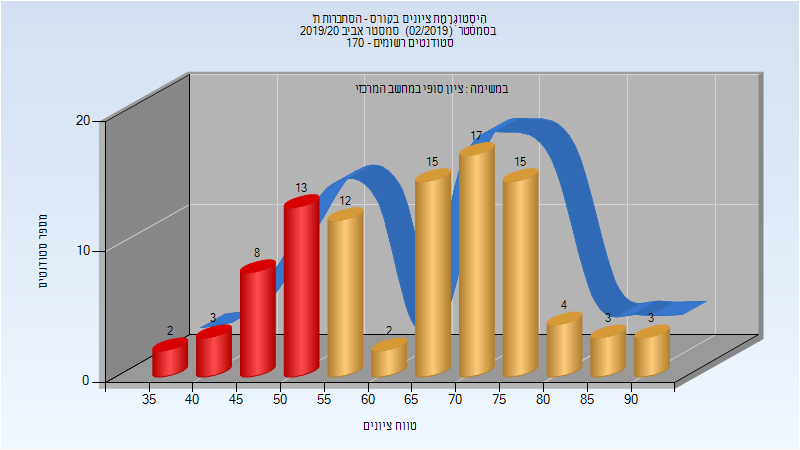
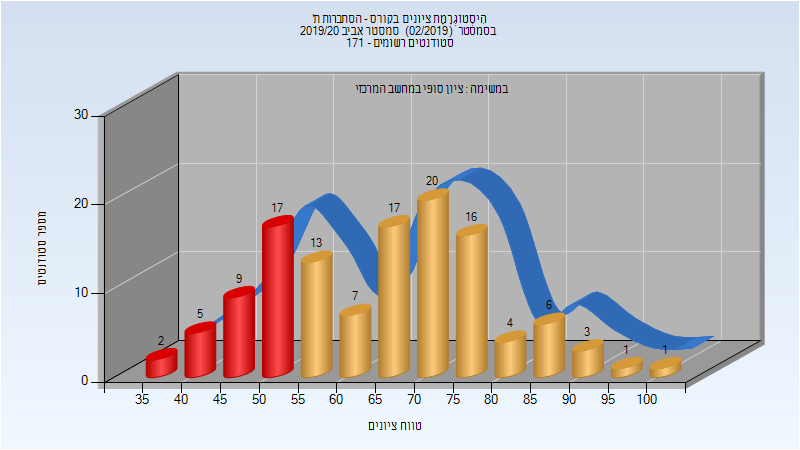
Deploy michael-maltsev/technion-histograms to github.com/michael-maltsev/technion-histograms.git:gh-pages

diff --git a/094411/index.html b/094411/index.html
@@ -686,12 +686,12 @@
 </thead>
 <tbody>
 <tr>
-<td>97</td>
-<td>71/26</td>
+<td>121</td>
+<td>88/33</td>
 <td>73</td>
 <td>36</td>
-<td>94</td>
-<td>64.959</td>
+<td>100</td>
+<td>65.132</td>
 <td>65</td>
 </tr>
 </tbody>

diff --git a/094411/README.md b/094411/README.md
@@ -211,5 +211,5 @@
 
 | סטודנטים | עברו/נכשלו | אחוז עוברים | ציון מינימלי | ציון מקסימלי | ממוצע | חציון |
 | ---- | ---- | ---- | ---- | ---- | ---- | ---- |
-| 97 | 71/26 | 73 | 36 | 94 | 64.959 | 65 |
+| 121 | 88/33 | 73 | 36 | 100 | 65.132 | 65 |
 
